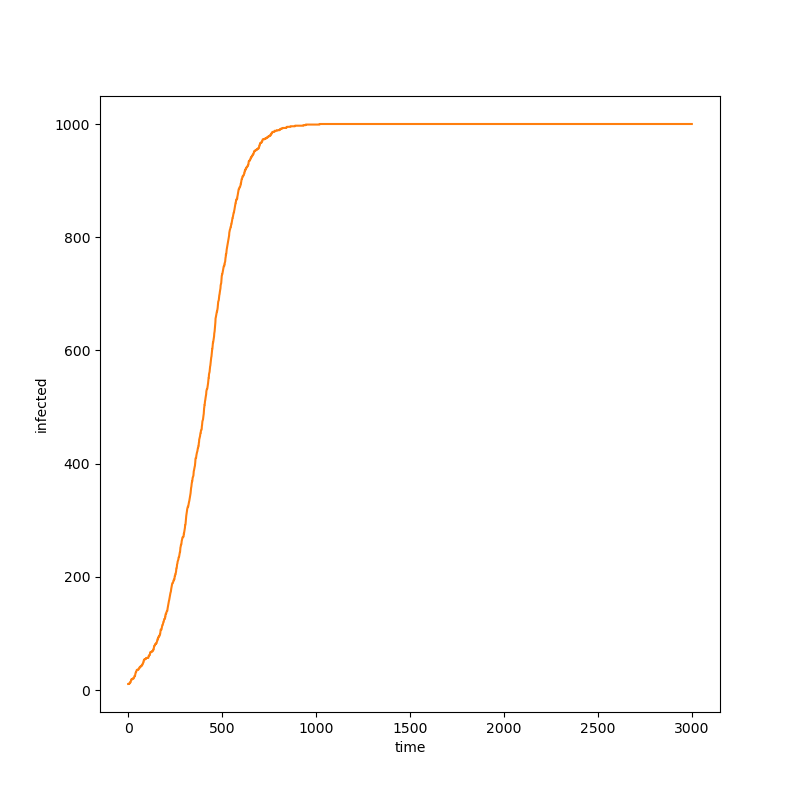
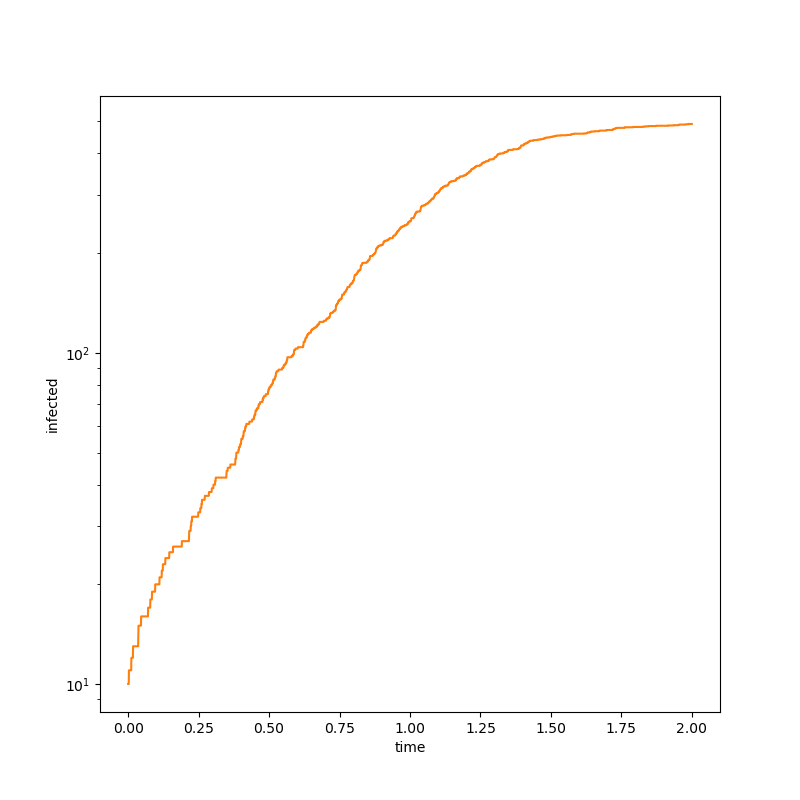
Better figures

diff --git a/corona_sim.py b/corona_sim.py
@@ -21,9 +21,9 @@ def velocity_perturbation(xx, maxvel=5):
 
 # Let's set the parameters
 # ------------------------------
-N = 1000
+N = 500
 box = 10.0  # Size of our box
-tmax = 5.0  # Final time
+tmax = 2.0  # Final time
 nsteps = 3000
 npart = 1000
 nvel = 1
@@ -68,8 +68,9 @@ for _ in tqdm.tqdm(np.arange(0, nsteps)):
 
 # ani = animation.ArtistAnimation(fig, ims, interval=50, blit=True, repeat_delay=1000)
 # ani.save("phase_space_1.mp4")
-plt.plot(infected)
+plt.plot(np.linspace(0, tmax, nsteps), infected)
 plt.xlabel("time")
 plt.ylabel("infected")
+plt.yscale("log")
 plt.savefig("infected.png", format="png")
 plt.show()
